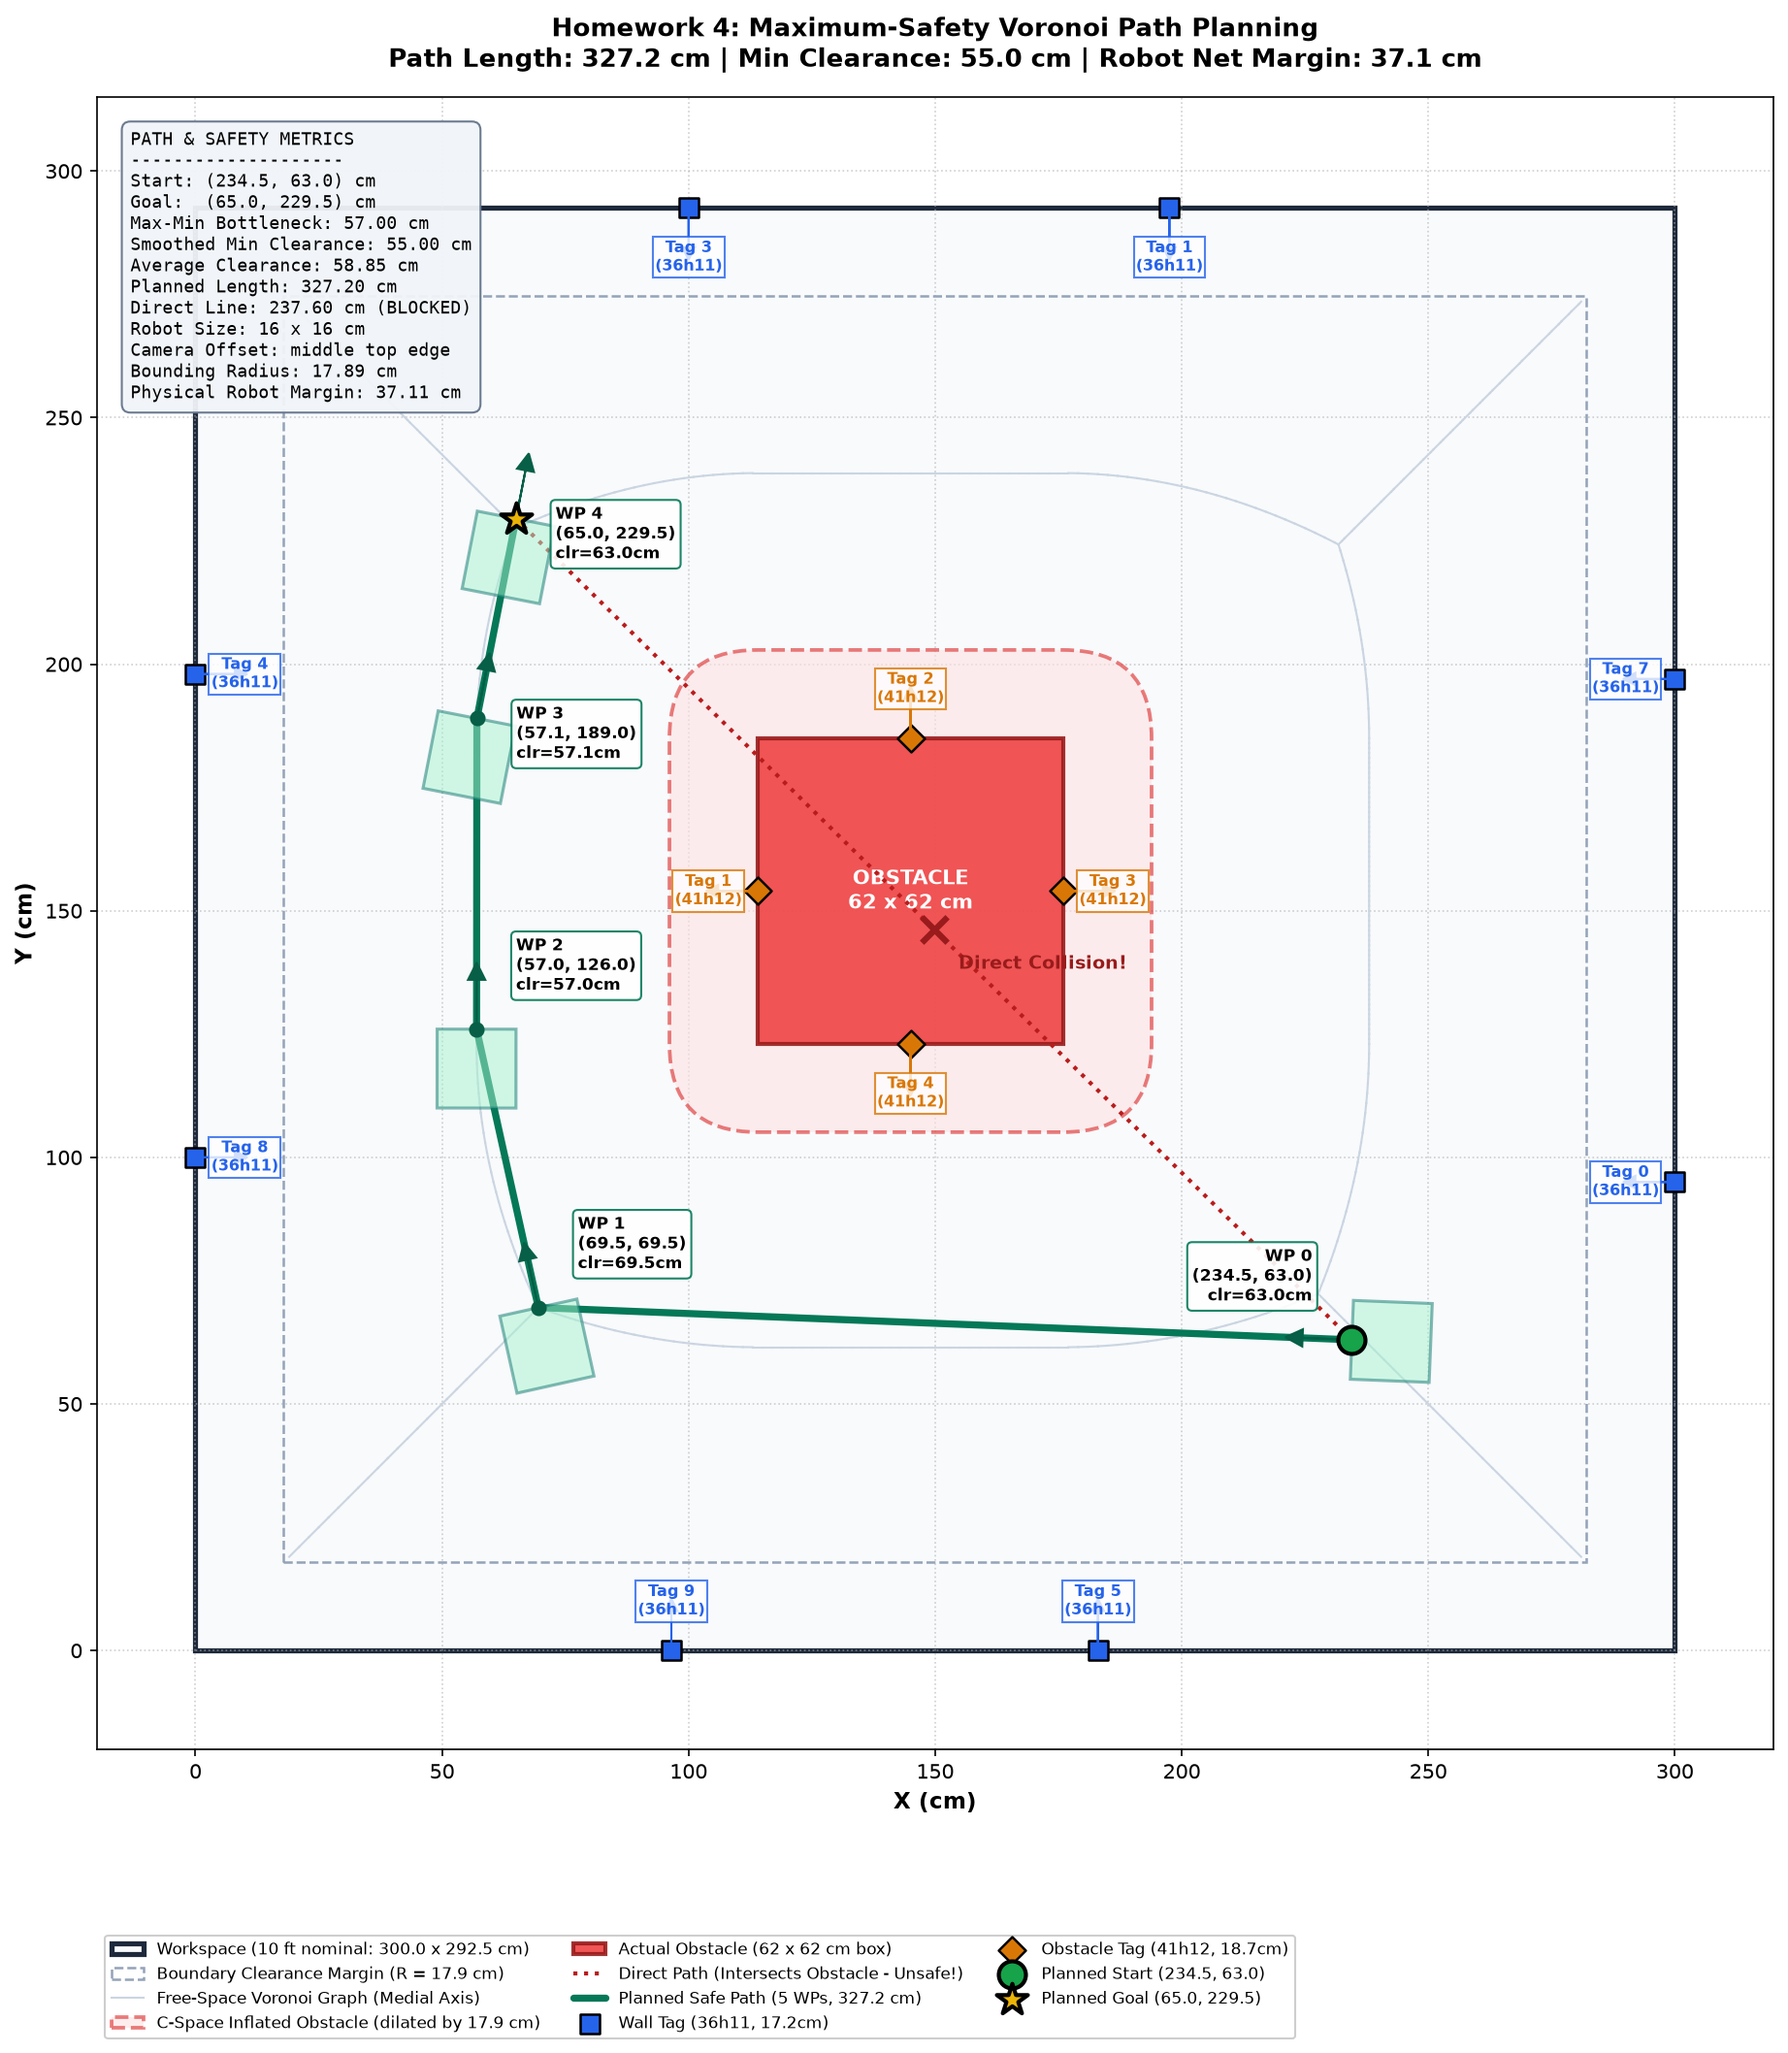
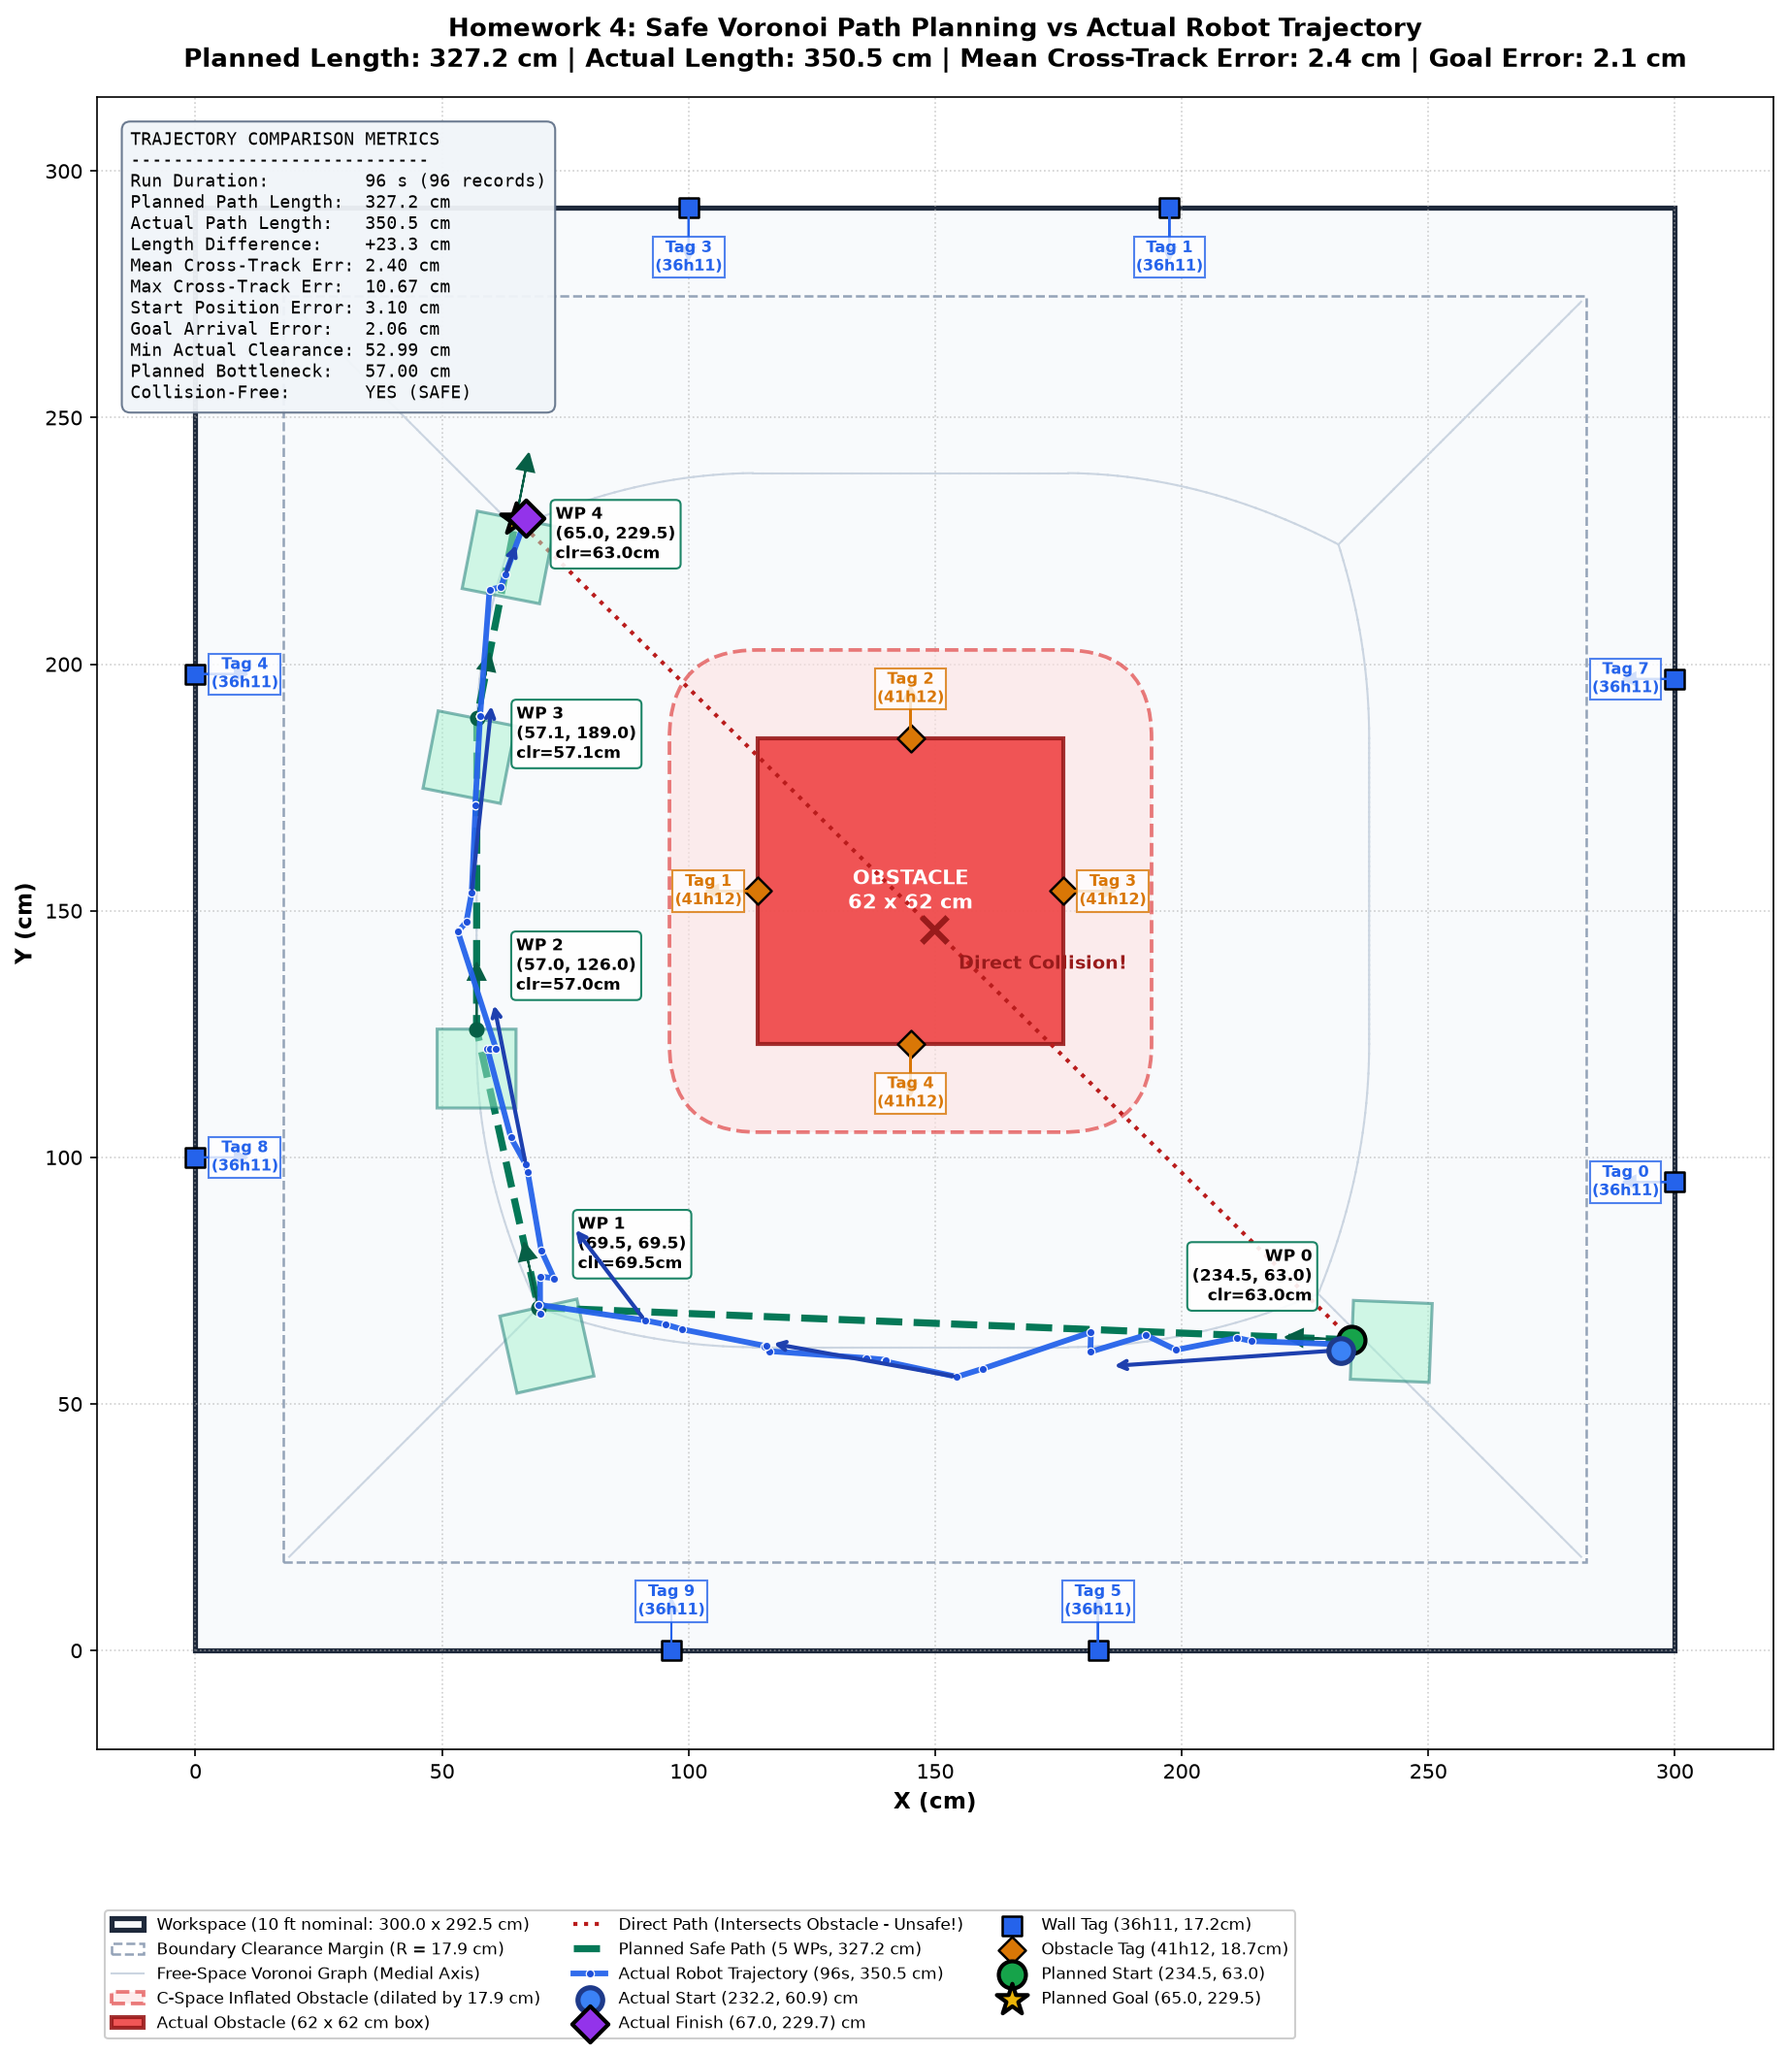
data for slow run

diff --git a/robot_testing/hw4_visualization.py b/robot_testing/hw4_visualization.py
@@ -496,3 +496,7 @@ def main():
         print("No recorded trajectory file found yet. Plotting planned safe Voronoi path...")
         plot_environment_and_path(path, env, landmarks, None, output_file)
         print("Tip: Run navigation first to generate coordinates.txt / hw4_trajectory.txt, then rerun this script.")
+
+
+if __name__ == '__main__':
+    main()
